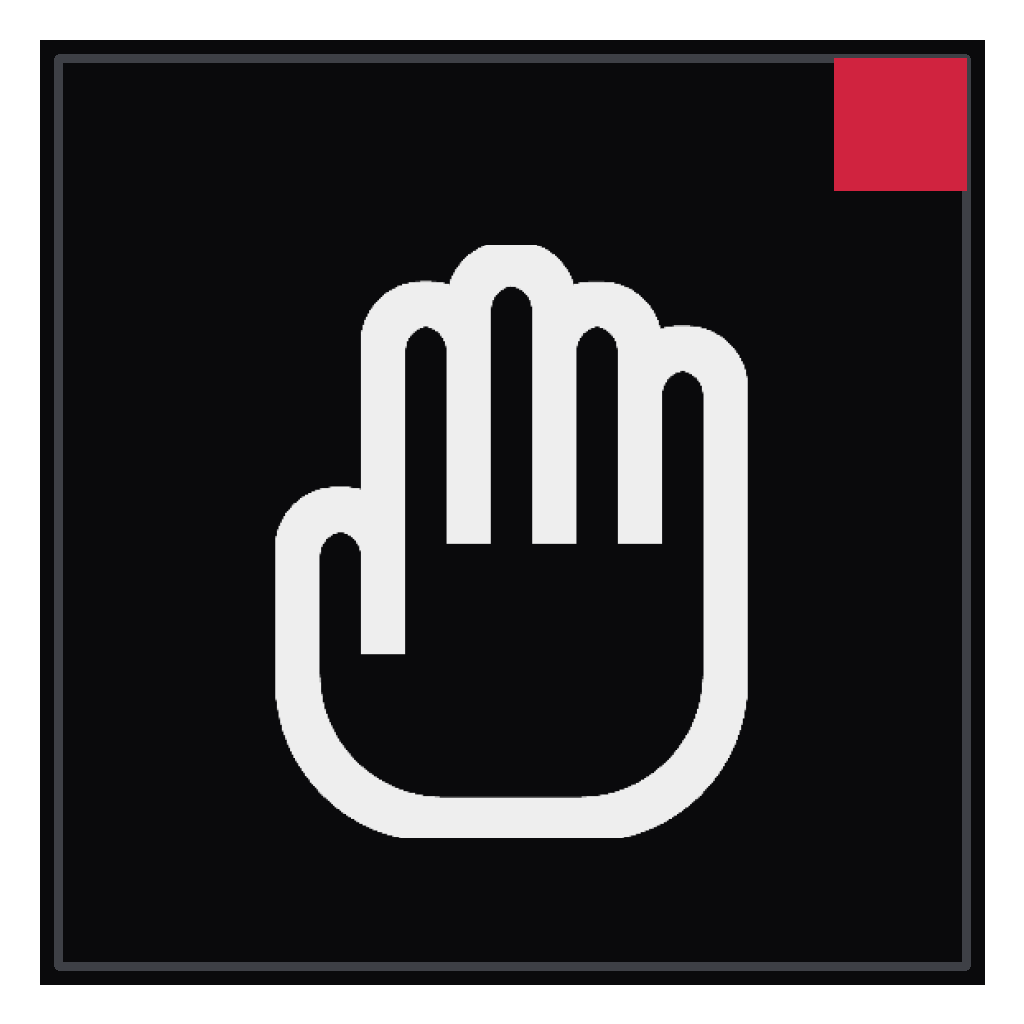
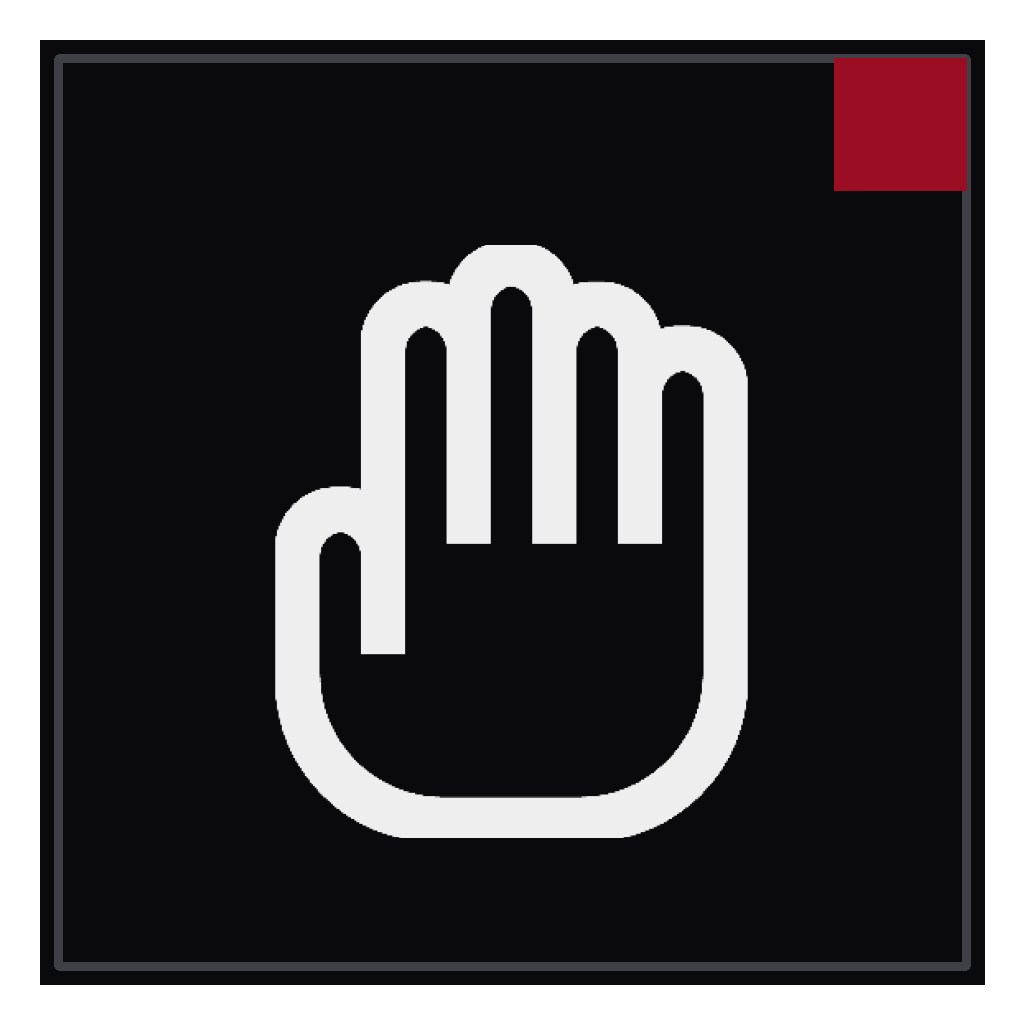
Darker blood-red accent and a more aggressive interface (synced from Windows repo)

Changed region(s): [[0.8125, 0.0312, 0.9688, 0.1875]]

diff --git a/src/handtrack/ui/widgets.py b/src/handtrack/ui/widgets.py
@@ -135,6 +135,7 @@ class Toggle(QAbstractButton):
         x = rect.left() + half * self._pos
         p.setPen(Qt.PenStyle.NoPen)
         p.setBrush(theme.mix(theme.c("surface3"), theme.c("accent"), self._pos))
+        p.setPen(Qt.PenStyle.NoPen)
         p.drawRect(QRectF(x + 2, rect.top() + 2, half - 4, rect.height() - 4))
         p.setFont(self._font)
         on = self._pos > 0.5
@@ -203,8 +204,8 @@ class Button(QAbstractButton):
         black = QColor("black")
         if self.kind in ("primary", "danger"):
             base = theme.c("danger" if self.kind == "danger" else "accent")
-            p.setBrush(theme.mix(base, black, 0.18 * self._press + 0.0 * h))
-            p.setPen(QPen(theme.mix(base, QColor("white"), 0.25 * h), 1))
+            p.setBrush(theme.mix(base, black, 0.25 * self._press))
+            p.setPen(QPen(theme.mix(base, QColor("white"), 0.35 * h), 1))
             fg = theme.c("accent_text")
         elif self.kind == "ghost":
             p.setBrush(theme.c("surface3", 0.8 * h))
@@ -215,6 +216,8 @@ class Button(QAbstractButton):
             p.setPen(QPen(theme.mix(theme.c("border"), theme.c("text"), 0.5 * h), 1))
             fg = theme.c("text")
         p.drawRect(rect)
+        if self.kind in ("primary", "danger") and h > 0.01:
+            theme.draw_hazard(p, rect.adjusted(1, 1, -1, -1), theme.c("stage", 0.22 * h), 12)
 
         text = self.text().upper()
         fm = QFontMetrics(self._font)
@@ -268,12 +271,15 @@ class Card(QFrame):
         p.drawRect(rect)
         if self._has_header:
             y = self.header.geometry().bottom() + 8.5
+            p.fillRect(QRectF(rect.left(), rect.top(), rect.width(), y - rect.top()), theme.c("surface2"))
             p.setPen(QPen(theme.c("border"), 1))
             p.drawLine(QPointF(rect.left(), y), QPointF(rect.right(), y))
-            # Red marker on the header edge.
             p.setPen(Qt.PenStyle.NoPen)
             p.setBrush(theme.c("accent"))
-            p.drawRect(QRectF(rect.left(), rect.top(), 3, y - rect.top()))
+            p.drawRect(QRectF(rect.left(), rect.top(), 5, y - rect.top()))      # header block
+            p.drawRect(QRectF(rect.left(), rect.top(), rect.width(), 2))          # red top edge
+            theme.draw_hazard(p, QRectF(rect.right() - 46, rect.top() + 2, 46, 5), theme.c("accent"),
+                              7, theme.c("stage"))
 
 
 # ------------------------------------------------------------- setting row ----
@@ -435,10 +441,11 @@ class NavIndicator(QWidget):
         p = QPainter(self)
         rect = QRectF(self.rect())
         p.setPen(Qt.PenStyle.NoPen)
-        p.setBrush(theme.c("surface3"))
+        p.setBrush(theme.mix(theme.c("surface3"), theme.c("accent"), 0.22))
         p.drawRect(rect)
         p.setBrush(theme.c("accent"))
-        p.drawRect(QRectF(0, 0, 3, rect.height()))
+        p.drawRect(QRectF(0, 0, 4, rect.height()))
+        theme.draw_hazard(p, QRectF(rect.right() - 18, 0, 18, rect.height()), theme.c("accent", 0.55), 6)
 
 
 class NavList(QWidget):

diff --git a/src/handtrack/ui/visuals.py b/src/handtrack/ui/visuals.py
@@ -36,9 +36,10 @@ def paint_covering(p, rect, phase, title, subtitle):
     p.drawRect(rect)
     p.setPen(Qt.PenStyle.NoPen)
     p.setBrush(red)
-    p.drawRect(QRectF(rect.left(), rect.top(), 3, rect.height()))
+    p.drawRect(QRectF(rect.left(), rect.top(), 4, rect.height()))
+    theme.draw_hazard(p, QRectF(rect.left() + 4, rect.bottom() - 4, rect.width() - 4, 4), red, 7)
 
-    cx, cy = rect.left() + 26, rect.center().y()
+    cx, cy = rect.left() + 26, rect.center().y() - 1
     on = int(phase * 4) % 2 == 0           # ~2 blinks per second
     p.setBrush(red if on else theme.c("accent", 0.45))
     p.drawPath(shield_path(cx, cy, 11))
@@ -48,7 +49,7 @@ def paint_covering(p, rect, phase, title, subtitle):
     p.drawLine(QPointF(cx - 1, cy + 3), QPointF(cx + 4, cy - 3))
 
     dots = "." * (1 + int(phase * 6) % 3)
-    p.setPen(red)
+    p.setPen(theme.mix(red, QColor("white"), 0.3))
     p.setFont(theme.mono(10, True, 1.5))
     p.drawText(QRectF(cx + 20, rect.top() + 5, rect.width() - 56, 20),
                Qt.AlignmentFlag.AlignVCenter, title + dots)
@@ -189,7 +190,7 @@ class PreviewWidget(QWidget):
         p.setPen(QPen(theme.c("border"), 1))
         p.setBrush(Qt.BrushStyle.NoBrush)
         p.drawRect(rect.adjusted(0.5, 0.5, -0.5, -0.5))
-        theme.draw_corner_marks(p, target.adjusted(6, 6, -6, -6), QColor(255, 255, 255, 170), 14, 1.5)
+        theme.draw_corner_marks(p, target.adjusted(6, 6, -6, -6), theme.c("accent"), 22, 3)
 
     def _readout(self, p, x, y, text, color=None, align_right=False, box=True):
         fm = p.fontMetrics()
@@ -243,15 +244,16 @@ class PreviewWidget(QWidget):
         title = self._texts[0]
         if self._state == self.STARTING:
             title += "." * (1 + int(self._phase * 8) % 3)
-        p.setPen(QColor(255, 255, 255, 230))
+        p.setPen(QColor(255, 255, 255, 235))
         p.drawText(QRectF(0, cy + 52, rect.width(), 30), Qt.AlignmentFlag.AlignCenter, title)
+        theme.draw_hazard(p, QRectF(cx - 90, cy + 112, 180, 6), theme.c("accent"), 8)
         p.setPen(QColor(255, 255, 255, 110))
         p.setFont(theme.mono(8.5, False, 0.4, upper=False))
         p.drawText(QRectF(0, cy + 84, rect.width(), 22), Qt.AlignmentFlag.AlignCenter, self._texts[1])
         # Signal-loss marker in the corner.
         on = int(self._phase * 4) % 2 == 0
         p.setFont(theme.mono(8.5, True, 1.0))
-        r = self._readout(p, 30, 30, "   NO SIGNAL", QColor(255, 255, 255, 200))
+        r = self._readout(p, 30, 30, "   NO SIGNAL", theme.mix(theme.c("accent"), QColor("white"), 0.35))
         p.setPen(Qt.PenStyle.NoPen)
         p.setBrush(theme.c("accent") if on else theme.c("accent", 0.3))
         p.drawRect(QRectF(r.left() + 7, r.center().y() - 3.5, 7, 7))

diff --git a/src/handtrack/ui/theme.py b/src/handtrack/ui/theme.py
@@ -23,12 +23,12 @@ DARK = {
     "text": "#ededee",
     "muted": "#8e8e97",
     "faint": "#56565d",
-    "accent": "#d0233f",      # signal red
+    "accent": "#9a0d22",      # dark blood red
     "accent2": "#3d2163",     # deep purple
     "accent_text": "#ffffff",
-    "success": "#d0233f",     # "on" states are red
+    "success": "#9a0d22",     # "on" states are red
     "ok": "#ededee",
-    "danger": "#d0233f",
+    "danger": "#9a0d22",
     "warning": "#7b4bc0",
     "stage": "#000000",
 }
@@ -43,12 +43,12 @@ LIGHT = {
     "text": "#0b0b0c",
     "muted": "#55555d",
     "faint": "#8f8f97",
-    "accent": "#b8132f",
+    "accent": "#850a1c",
     "accent2": "#3d2163",
     "accent_text": "#ffffff",
-    "success": "#b8132f",
+    "success": "#850a1c",
     "ok": "#0b0b0c",
-    "danger": "#b8132f",
+    "danger": "#850a1c",
     "warning": "#5b2f99",
     "stage": "#000000",
 }
@@ -235,6 +235,28 @@ def draw_corner_marks(painter, rect, color, length=8, width=1.5):
                          (r.left(), r.bottom(), 1, -1), (r.right(), r.bottom(), -1, -1)):
         painter.drawLine(QPointF(x, y), QPointF(x + dx * length, y))
         painter.drawLine(QPointF(x, y), QPointF(x, y + dy * length))
+
+
+def draw_hazard(painter, rect, color, step=8, back=None):
+    """Diagonal warning-tape stripes clipped to ``rect``."""
+    r = QRectF(rect)
+    painter.save()
+    painter.setClipRect(r)
+    if back is not None:
+        painter.fillRect(r, back)
+    painter.setPen(Qt.PenStyle.NoPen)
+    painter.setBrush(color)
+    x = r.left() - r.height()
+    while x < r.right():
+        path = QPainterPath()
+        path.moveTo(x, r.bottom())
+        path.lineTo(x + step / 2, r.bottom())
+        path.lineTo(x + step / 2 + r.height(), r.top())
+        path.lineTo(x + r.height(), r.top())
+        path.closeSubpath()
+        painter.drawPath(path)
+        x += step
+    painter.restore()
 
 
 def stylesheet():

diff --git a/src/handtrack/vision/render.py b/src/handtrack/vision/render.py
@@ -14,14 +14,14 @@ from handtrack.vision.geometry import EYE_VIZ_POINTS, FACE_MASK_ANCHOR_IDX, HAND
 logger = logging.getLogger("handtrack")
 
 STICKER_EXTENSIONS = (".png", ".jpg", ".jpeg", ".webp", ".bmp")
-SKELETON_COLOR = (63, 35, 208)     # BGR signal red
+SKELETON_COLOR = (34, 13, 154)     # BGR signal red
 JOINT_COLOR = (238, 238, 238)
 STICKER_SIZE_BUCKET = 8
 STICKER_ANGLE_BUCKET = 5
 STICKER_CACHE_SIZE = 192
 
 # Drawing colours (BGR): signal red, white, purple, safety orange, grey.
-DRAW_COLORS = ((63, 35, 208), (238, 238, 238), (176, 60, 110), (0, 120, 245), (140, 140, 140))
+DRAW_COLORS = ((34, 13, 154), (238, 238, 238), (176, 60, 110), (0, 120, 245), (140, 140, 140))
 
 
 # ---------------------------------------------------------------- stickers ----
@@ -194,7 +194,7 @@ def draw_privacy_mask(frame, box):
     r = min(w, h) * 0.22
     cx, cy = x1 + w / 2, y1 + h / 2
     pts = (_SHIELD * r + (cx, cy)).astype(np.int32)
-    cv2.polylines(frame, [pts], True, (63, 35, 208), max(2, int(r / 9)), cv2.LINE_AA)
+    cv2.polylines(frame, [pts], True, (34, 13, 154), max(2, int(r / 9)), cv2.LINE_AA)
 
 
 def draw_afk(frame, title, subtitle):
@@ -206,7 +206,7 @@ def draw_afk(frame, title, subtitle):
         cv2.line(frame, (x, h), (x + h, 0), (22, 22, 24), step // 2)
     (tw, th), _ = cv2.getTextSize(title, cv2.FONT_HERSHEY_DUPLEX, 3.0, 6)
     org = ((w - tw) // 2, (h + th) // 2)
-    cv2.putText(frame, title, org, cv2.FONT_HERSHEY_DUPLEX, 3.0, (63, 35, 208), 6, cv2.LINE_AA)
+    cv2.putText(frame, title, org, cv2.FONT_HERSHEY_DUPLEX, 3.0, (34, 13, 154), 6, cv2.LINE_AA)
     (sw, sh), _ = cv2.getTextSize(subtitle, cv2.FONT_HERSHEY_SIMPLEX, 0.85, 2)
     cv2.putText(frame, subtitle, ((w - sw) // 2, org[1] + sh + 26), cv2.FONT_HERSHEY_SIMPLEX,
                 0.85, (225, 225, 228), 2, cv2.LINE_AA)

diff --git a/src/handtrack/ui/pages.py b/src/handtrack/ui/pages.py
@@ -18,6 +18,18 @@ from handtrack.ui.widgets import (
 )
 
 
+class HazardRule(QWidget):
+    """Short warning-tape bar under a page title."""
+
+    def __init__(self, width=120):
+        super().__init__()
+        self.setFixedSize(width, 6)
+
+    def paintEvent(self, event):
+        p = QPainter(self)
+        theme.draw_hazard(p, QRectF(self.rect()), theme.c("accent"), 8, theme.c("stage"))
+
+
 def number_cards(page, code):
     """Give the page's panels running codes like 02.01, 02.02 …"""
     for i, card in enumerate(page.findChildren(Card), 1):
@@ -40,8 +52,9 @@ def page_header(title, subtitle=None, code=None):
     box = QVBoxLayout()
     box.setSpacing(2)
     if code:
-        box.addWidget(tag_label(f"HANDTRACK // {code}", "accent", 8))
-    box.addWidget(heading(title, 18, 2))
+        box.addWidget(tag_label(f"HANDTRACK // SECTION {code}", "accent", 8))
+    box.addWidget(heading(title, 24, 3))
+    box.addWidget(HazardRule())
     if subtitle:
         box.addWidget(label(subtitle, "subtitle", wrap=True))
     return box

diff --git a/src/handtrack/ui/main_window.py b/src/handtrack/ui/main_window.py
@@ -19,6 +19,7 @@ from handtrack.i18n import Translator
 from handtrack.ui import theme
 from handtrack.ui.overlays import GazeCalibrationOverlay
 from handtrack.ui.pages import (
+    HazardRule,
     FINGER_KEYS, CalibrationPage, CameraPage, EffectsPage, GesturesPage, SettingsPage,
 )
 from handtrack.ui.visuals import CoveringBadge, PreviewWidget, pattern_icon
@@ -178,13 +179,15 @@ class MainWindow(QMainWindow):
         brand.addWidget(logo)
         names = QVBoxLayout()
         names.setSpacing(0)
-        title = heading("HandTrack", 14, 2.5)
+        title = heading("HandTrack", 15, 3)
         sub = label(tr("app_subtitle"), "faint")
         names.addWidget(title)
         names.addWidget(sub)
         brand.addLayout(names, 1)
         side.addLayout(brand)
-        side.addSpacing(22)
+        side.addSpacing(10)
+        side.addWidget(HazardRule(200))
+        side.addSpacing(14)
 
         self.nav = NavList()
         for key, icon in (("nav_camera", "camera"), ("nav_effects", "effects"),

diff --git a/packaging/make_icon.py b/packaging/make_icon.py
@@ -26,7 +26,7 @@ def render():
     pad = 40
     cv2.rectangle(img, (pad, pad), (S - pad, S - pad), (12, 10, 10, 255), -1)
     cv2.rectangle(img, (pad + 18, pad + 18), (S - pad - 18, S - pad - 18), (70, 64, 62, 255), 8)
-    cv2.rectangle(img, (S - pad - 150, pad + 18), (S - pad - 18, pad + 150), (63, 35, 208, 255), -1)
+    cv2.rectangle(img, (S - pad - 150, pad + 18), (S - pad - 18, pad + 150), (34, 13, 154, 255), -1)
 
     gray = cv2.imdecode(np.fromfile(os.path.join(ASSETS, "hand_reference.png"), np.uint8),
                         cv2.IMREAD_GRAYSCALE)

diff --git a/src/handtrack/vcam.py b/src/handtrack/vcam.py
@@ -349,7 +349,7 @@ def _standby_frame(width, height):
     scale = max(0.9, width / 700)
     (tw, th), _ = cv2.getTextSize(text, cv2.FONT_HERSHEY_DUPLEX, scale, 2)
     cv2.putText(frame, text, ((width - tw) // 2, (height + th) // 2), cv2.FONT_HERSHEY_DUPLEX,
-                scale, (63, 35, 208), 2, cv2.LINE_AA)
+                scale, (34, 13, 154), 2, cv2.LINE_AA)
     return frame
 
 
